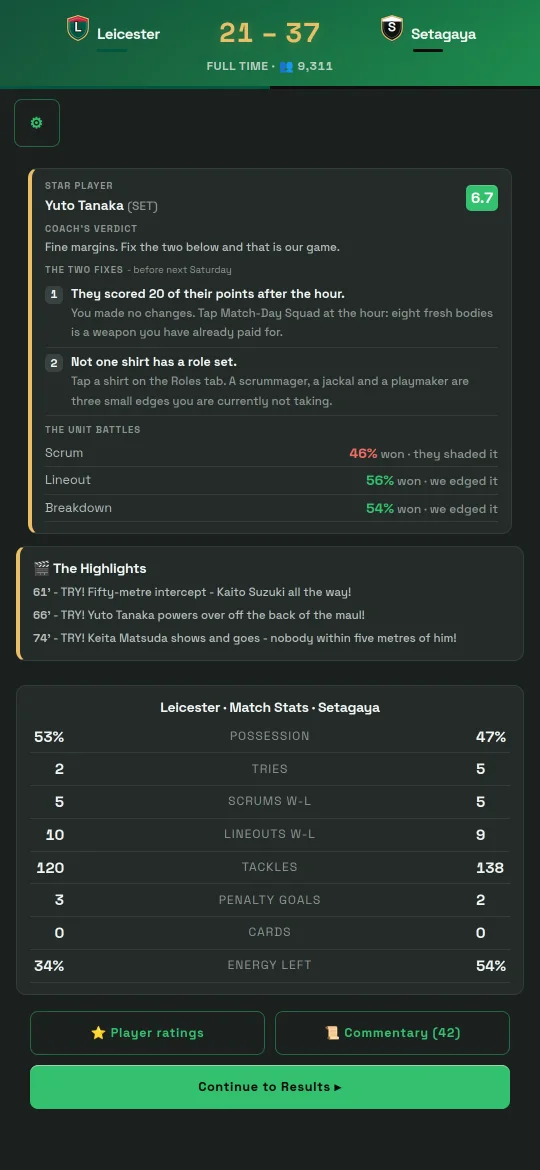
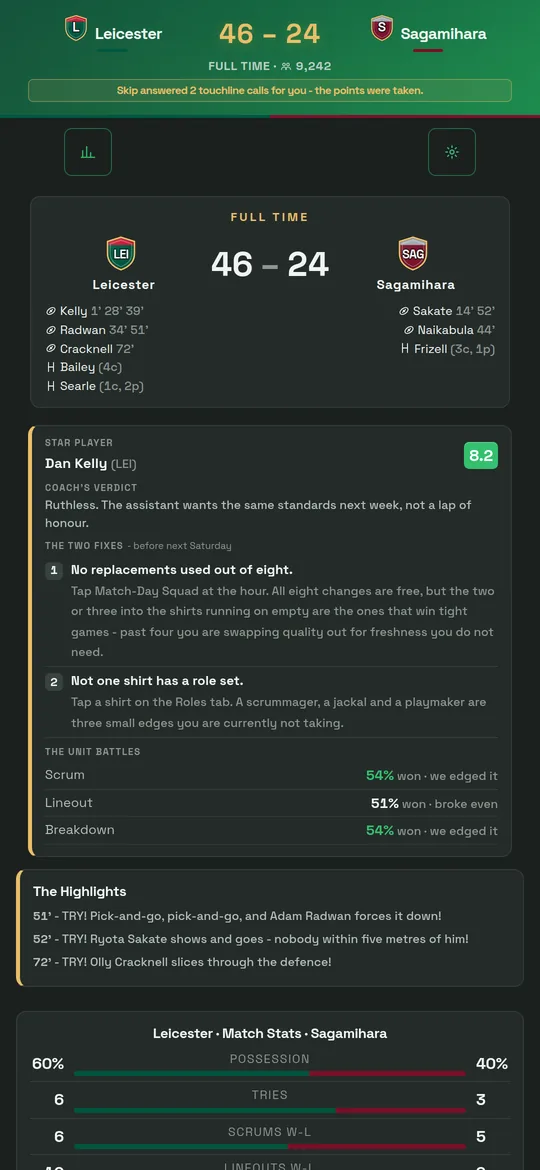
The PHASE Discord, a community section, and room for more games
The PHASE card gains a Join the Discord button and its 1.8.0 copy (171 clubs
in fifteen leagues, where it said over a hundred in eight) and screenshots.
A More games in development card sits under it, so the list reads as the
start of a catalogue. A new Community section lists each game's Discord,
PHASE first. The nav gains Community and the footer links to the PHASE site
and its Discord.

Claude-Session: https://claude.ai/code/session_019rwDxFWEwuYK7ZNhpgNECm

diff --git a/index.html b/index.html
@@ -35,6 +35,7 @@
     <nav>
       <a href="#games">Games</a>
       <a class="opt" href="#studio">Studio</a>
+      <a href="#community">Community</a>
       <a href="#contact">Contact</a>
     </nav>
   </div>
@@ -64,7 +65,7 @@
           <div class="phones">
             <img src="./img/phase-team.webp" alt="The team sheet screen, with positions, ratings and fitness." width="540" height="1170" loading="lazy">
             <img src="./img/phase-home.webp" alt="The club home screen, with fixtures, news and the week ahead." width="540" height="1170" loading="lazy">
-            <img src="./img/phase-match.webp" alt="A finished match, with the score, the scorers and the match statistics." width="540" height="1170" loading="lazy">
+            <img src="./img/phase-match.webp" alt="A finished match, with the score, the scorers, the coach's verdict and the highlights." width="540" height="1170" loading="lazy">
           </div>
         </div>
         <div class="feature-body">
@@ -75,7 +76,7 @@
               <span class="tag">Rugby union management</span>
             </div>
           </div>
-          <p>Over a hundred clubs across eight competitions, with transfers, contracts, youth intakes and live match days. The men's and women's games each have their own clubs, competitions and challenges.</p>
+          <p>171 clubs in fifteen leagues, nine in the men's game and six in the women's, with transfers, contracts, youth intakes and match days where every carry, tackle and breakdown is a contest between the players involved.</p>
           <ul class="chips">
             <li>Free to play</li>
             <li>Plays offline</li>
@@ -88,10 +89,19 @@
               Get it on Google Play
             </a>
             <a class="btn btn-ghost" href="https://phaserugbymanager.com/">Visit the game site</a>
+            <a class="btn btn-ghost" href="https://discord.gg/3KKfDVsMb">
+              <svg viewBox="0 0 24 24" fill="none" stroke="currentColor" stroke-width="2" stroke-linecap="round" stroke-linejoin="round" aria-hidden="true"><path d="M4 5h16a1 1 0 0 1 1 1v10a1 1 0 0 1-1 1H9l-5 4v-4H4a1 1 0 0 1-1-1V6a1 1 0 0 1 1-1Z"/><path d="M8 10h8M8 13h5"/></svg>
+              Join the Discord
+            </a>
           </div>
           <p class="soon">Coming soon to the App Store.</p>
         </div>
       </article>
+
+      <div class="card more-games">
+        <h3>More games in development</h3>
+        <p>PHASE is the first. We are working on what comes next, and every new game will be listed here with its own page and its own community.</p>
+      </div>
     </div>
   </section>
 
@@ -120,6 +130,30 @@
     </div>
   </section>
 
+  <section id="community" style="padding-top:0">
+    <div class="wrap">
+      <p class="kicker">Community</p>
+      <h2>Play it, break it, tell us.</h2>
+      <p class="section-lead">Each of our games has its own Discord server: the place to report a bug in any language, share an idea and talk sport with other players. It is also how we decide what to build next.</p>
+      <div class="cards community-list">
+        <div class="card">
+          <div class="game-head">
+            <img src="./img/phase-icon.svg" alt="" width="48" height="48">
+            <div>
+              <h3>PHASE: Rugby Manager</h3>
+              <span class="tag">Discord server</span>
+            </div>
+          </div>
+          <p>Pick the club you manage, report bugs with /bug, and talk rugby.</p>
+          <a class="btn btn-primary" href="https://discord.gg/3KKfDVsMb">
+            <svg viewBox="0 0 24 24" fill="none" stroke="currentColor" stroke-width="2" stroke-linecap="round" stroke-linejoin="round" aria-hidden="true"><path d="M4 5h16a1 1 0 0 1 1 1v10a1 1 0 0 1-1 1H9l-5 4v-4H4a1 1 0 0 1-1-1V6a1 1 0 0 1 1-1Z"/><path d="M8 10h8M8 13h5"/></svg>
+            Join the PHASE Discord
+          </a>
+        </div>
+      </div>
+    </div>
+  </section>
+
   <section id="contact" style="padding-top:0">
     <div class="wrap">
       <div class="contact-box">
@@ -143,6 +177,8 @@
   <div class="wrap">
     <span class="legal">&copy; 2026 FWDS &amp; BCKS LTD. Registered in England and Wales, company number 17473463. Registered office: 71-75 Shelton Street, Covent Garden, London, WC2H 9JQ.</span>
     <nav>
+      <a href="https://phaserugbymanager.com/">PHASE: Rugby Manager</a>
+      <a href="https://discord.gg/3KKfDVsMb">Discord</a>
       <a href="./privacy.html">Privacy</a>
       <a href="mailto:info@fwdsandbcks.com">Contact</a>
     </nav>

diff --git a/style.css b/style.css
@@ -218,3 +218,11 @@ footer a:hover { color: var(--green-hi); }
   *, *::before, *::after { animation: none !important; transition: none !important; }
   html { scroll-behavior: auto; }
 }
+
+/* the list of games is meant to grow: the placeholder sits under the first
+   game, and the community cards run one per game */
+.more-games { margin-top: 18px; border-style: dashed; }
+.community-list { grid-template-columns: 1fr; }
+@media (min-width: 760px) { .community-list { grid-template-columns: repeat(2, 1fr); } }
+.community-list .game-head img { width: 48px; height: 48px; border-radius: 12px; }
+.community-list .card p { margin-bottom: 18px; }
